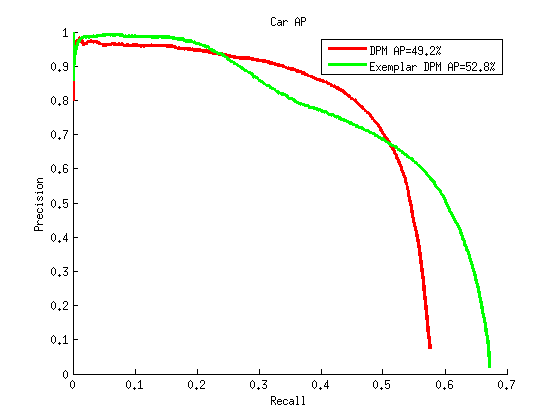
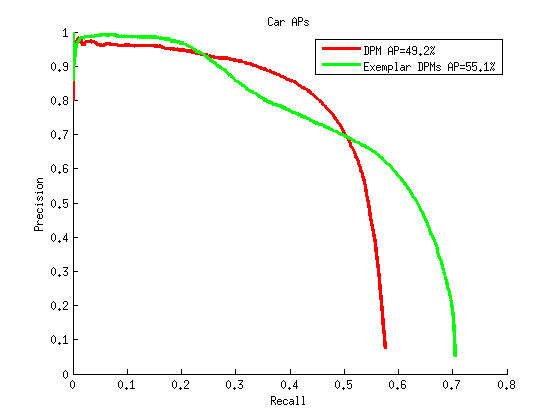
limit the bbox range of occlusion patterns

diff --git a/Exemplar_DPM/exemplar_combine_detections.m b/Exemplar_DPM/exemplar_combine_detections.m
@@ -14,11 +14,24 @@ N = numel(centers);
 dets = [];
 for i = 1:N
     cid = centers(i);
+    
+    % compute the range of bounding box center, width and height
+    bbox = data.bbox(:, idx == cid);
+    x = (bbox(1,:) + bbox(3,:)) / 2;
+    y = (bbox(2,:) + bbox(4,:)) / 2;
+    w = bbox(3,:) - bbox(1,:);
+    h = bbox(4,:) - bbox(2,:);
+    r = [x; y; w; h];
+    rmin = min(r, [], 2);
+    rmax = max(r, [], 2);
+    rlen = rmax - rmin;
+    lim = [rmin - 0.1*rlen rmax + 0.1*rlen];
+    
     filename = sprintf('kitti_train/%s_%d_test.mat', cls, cid);
     fprintf('load %s\n', filename);
     object = load(filename);
     boxes1 = object.boxes1;
-    boxes_new = cellfun(@(x) process_boxes(x, cid, threshold), boxes1, 'UniformOutput', false);
+    boxes_new = cellfun(@(x) process_boxes(x, cid, threshold, lim), boxes1, 'UniformOutput', false);
     if i == 1
         dets = boxes_new;
     else
@@ -30,12 +43,18 @@ filename = sprintf('kitti_train/%s_test.mat', cls);
 save(filename, 'dets', '-v7.3');
 
 
-function boxes_new = process_boxes(boxes, cid, threshold)
+function boxes_new = process_boxes(boxes, cid, threshold, lim)
 
 if isempty(boxes) == 1
     boxes_new = [];
 else
-    index= find(boxes(:, 5) > threshold);
+    x = (boxes(:,1) + boxes(:,3)) / 2;
+    y = (boxes(:,2) + boxes(:,4)) / 2;
+    w = boxes(:,3) - boxes(:,1);
+    h = boxes(:,4) - boxes(:,2);    
+    
+    index= find((boxes(:, 5) > threshold & x > lim(1,1) & x < lim(1,2) & ...
+        y > lim(2,1) & y < lim(2,2) & w > lim(3,1) & w < lim(3,2) & h > lim(4,1) & h < lim(4,2)) == 1);
     if isempty(index) == 1
         boxes_new = [];
     else
